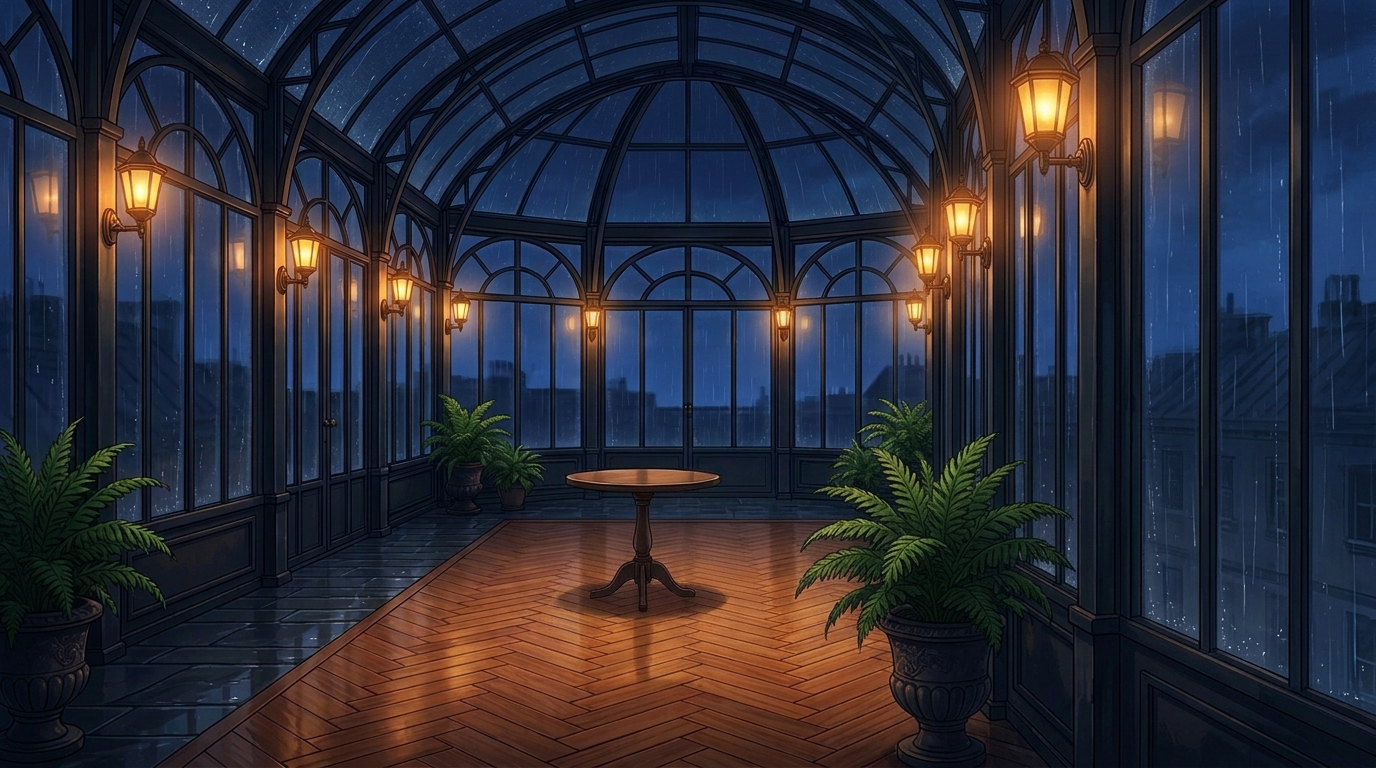
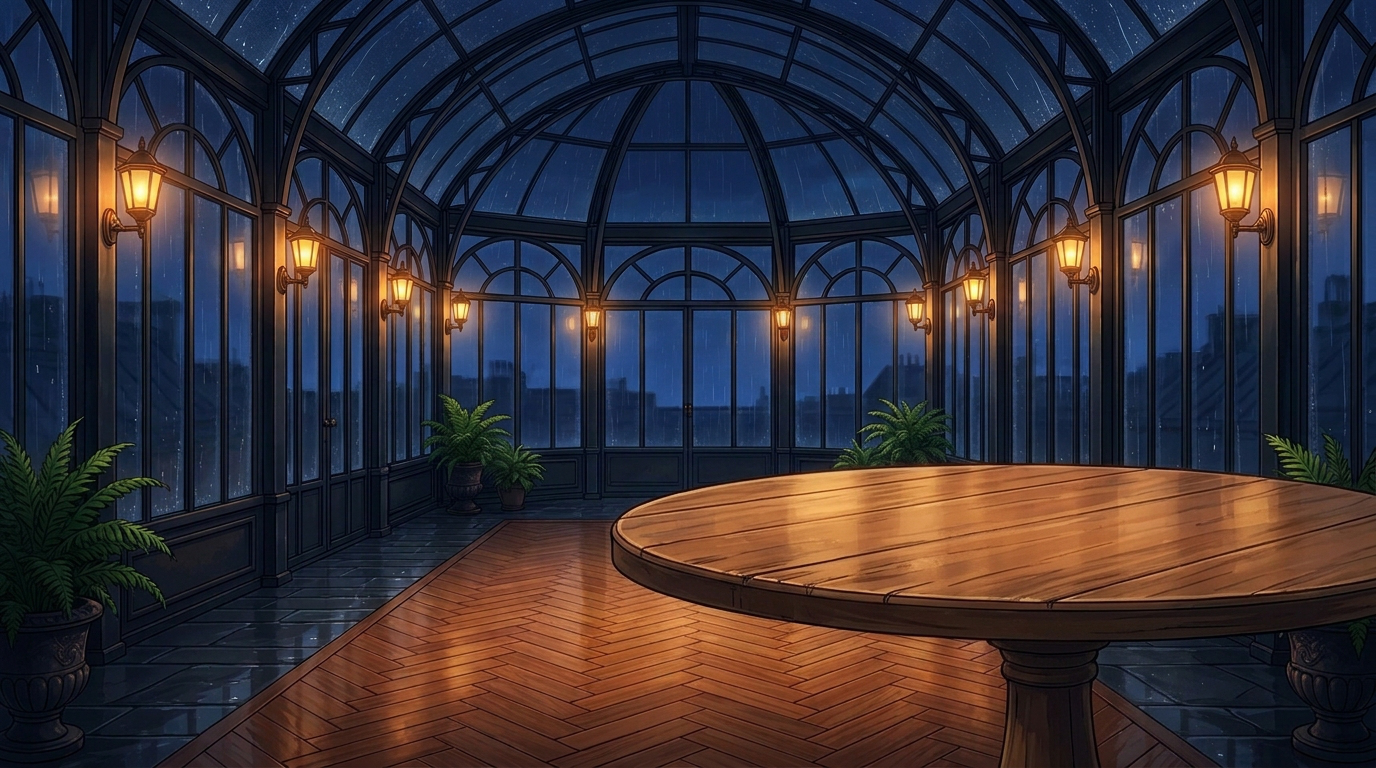
polish(round2): wire injected_prop_json extend handoff, regenerate level close-up Cam B ref, and merge hardening/SSE

Changed region(s): [[0.4062, 0.0, 1.0, 1.0]]

diff --git a/frontend/src/App.tsx b/frontend/src/App.tsx
@@ -23,6 +23,7 @@ import {
   requestSceneRender,
   submitDirectorFork,
   subscribeRenderProgress,
+  type InjectedPropPayload,
   type RenderProgressSnapshot,
 } from './api/stageClient';
 import {
@@ -416,6 +417,7 @@ export default function App(): React.ReactElement {
     text?: string;
     clip?: Blob | null;
     parsedDirective?: DirectorInputParsed | null;
+    injectedProp?: InjectedPropPayload | null;
   }): Promise<boolean> => {
     setBusy({
       label: `Continuing story into Scene ${opts.fromSceneId + 1}`,
@@ -431,6 +433,7 @@ export default function App(): React.ReactElement {
       text: opts.text,
       clip: clipToForward,
       parsedDirective: opts.parsedDirective,
+      injectedProp: opts.injectedProp,
       endFreezeMode: 'sculpture',
       detectThrowPeak: true,
     });
@@ -987,13 +990,15 @@ export default function App(): React.ReactElement {
                         entry_origin: isExplicitToss ? [1.0, 1.5, 0.8] : null,
                       },
                     ];
-            // W2-V3-02: Append `<prop_id>: <appearance_summary>` to environment_notes for render fidelity
+            // W2-V3-02: Upsert `<prop_id>: <appearance_summary>` via `|` delimiter without bloating multi-turn notes
             let nextEnvNotes = s.environment_notes || '';
             if (appearanceSummary) {
-              const cue = `${created.prop_id}: ${appearanceSummary}`;
-              if (!nextEnvNotes.includes(cue)) {
-                nextEnvNotes = nextEnvNotes ? `${nextEnvNotes} ${cue}`.trim() : cue;
-              }
+              const filteredParts = nextEnvNotes
+                .split(/\s*\|\s*/)
+                .map((p) => p.trim())
+                .filter((p) => p.length > 0 && !p.startsWith(`${created.prop_id}:`));
+              filteredParts.push(`${created.prop_id}: ${appearanceSummary}`);
+              nextEnvNotes = filteredParts.join(' | ');
             }
             return {
               ...s,
@@ -1044,6 +1049,16 @@ export default function App(): React.ReactElement {
           ? `${queued.text} (ACTION REQUIREMENT: The viewer explicitly tossed "${created.item.name}" [${matchedLabel}, id=${created.prop_id}] to Lia — Lia catches it, puts aside her umbrella if needed, and visibly performs: "${queued.text}".)`
           : `${queued.text} (ACTION REQUIREMENT: The viewer placed "${created.item.name}" [${matchedLabel}, id=${created.prop_id}] on the ${payload.placement} — Lia puts aside her umbrella if needed, interacts with "${created.item.name}", and visibly performs: "${queued.text}".)`,
         clip: queued.clip,
+        injectedProp: {
+          prop_id: created.prop_id,
+          item: created.item,
+          placement: payload.placement,
+          entry_motion: isExplicitToss
+            ? 'throw_arc'
+            : payload.placement === 'held'
+              ? 'held'
+              : 'place',
+        },
       });
       submittingRef.current = false;
       setSubmitting(false);

diff --git a/frontend/src/api/stageClient.ts b/frontend/src/api/stageClient.ts
@@ -100,12 +100,20 @@ export interface PerceiveRequestPayload {
   text?: string;
 }
 
+export interface InjectedPropPayload {
+  prop_id: string;
+  item: PropRegistryItem;
+  placement?: 'table' | 'held' | 'floor';
+  entry_motion?: PropEntryMotion;
+}
+
 export interface ExtendStoryPayload {
   branchId: string;
   fromSceneId?: number;
   clip?: Blob | null;
   text?: string;
   parsedDirective?: DirectorInputParsed | null;
+  injectedProp?: InjectedPropPayload | null;
   endFreezeMode?: 'sculpture' | 'none';
   detectThrowPeak?: boolean;
 }
@@ -244,6 +252,9 @@ export async function extendDirectorStory(
   }
   if (payload.parsedDirective) {
     formData.append('parsed_directive_json', JSON.stringify(payload.parsedDirective));
+  }
+  if (payload.injectedProp) {
+    formData.append('injected_prop_json', JSON.stringify(payload.injectedProp));
   }
   formData.append('end_freeze_mode', payload.endFreezeMode ?? 'sculpture');
   formData.append('detect_throw_peak', String(payload.detectThrowPeak ?? true));

diff --git a/backend/main.py b/backend/main.py
@@ -55,7 +55,7 @@ from backend.media.video_renderer import (
     subscribe_render_progress,
     unsubscribe_render_progress,
 )
-from backend.schemas import BranchState, DirectorInputParsed, Scene, SceneMedia, StagePropState
+from backend.schemas import BranchState, DirectorInputParsed, PropRegistryItem, Scene, SceneMedia, StagePropState
 
 _ALLOWED_PREVIEW_EXTS: set[str] = {".webm", ".mp4", ".png", ".jpg", ".jpeg"}
 _BRANCH_WRITE_LOCKS: dict[str, asyncio.Lock] = {}
@@ -474,6 +474,7 @@ async def api_director_extend(
     end_freeze_mode: str = Form("sculpture"),
     detect_throw_peak: bool = Form(True),
     parsed_directive_json: Optional[str] = Form(None),
+    injected_prop_json: Optional[str] = Form(None),
     clip: Optional[UploadFile] = File(None),
 ) -> BranchState:
     """
@@ -514,11 +515,29 @@ async def api_director_extend(
 
     updated_registry = dict(parent.props_registry)
     thrown_prop_id: Optional[str] = None
+    injected_placement: str = "table"
+    injected_motion: Optional[str] = None
     explicit_handoff = any(
         kw in (parsed.instruction or "").lower()
         for kw in ("hand you", "give you", "toss", "throw", "catch", "pass you", "to lia", "for you", "for lia", "递给", "给你", "扔给", "丢给")
     )
-    if parsed.has_physical_prop and parsed.prop_name:
+    if injected_prop_json and injected_prop_json.strip():
+        try:
+            inj = json.loads(injected_prop_json)
+            inj_id = str(inj.get("prop_id") or "").strip()
+            inj_item_raw = inj.get("item")
+            if inj_id and isinstance(inj_item_raw, dict):
+                inj_item = PropRegistryItem.model_validate(inj_item_raw)
+                updated_registry[inj_id] = inj_item
+                thrown_prop_id = inj_id
+                injected_placement = str(inj.get("placement") or "table")
+                raw_m = inj.get("entry_motion")
+                injected_motion = str(raw_m) if raw_m in ("place", "throw_arc", "held") else None
+                if getattr(inj_item, "appearance_summary", ""):
+                    parsed.prop_description = inj_item.appearance_summary
+        except Exception:
+            pass
+    if thrown_prop_id is None and parsed.has_physical_prop and parsed.prop_name:
         thrown_prop_id, prop_item = await _invoke_create_prop(
             name=parsed.prop_name,
             description=parsed.prop_description or parsed.prop_name,
@@ -538,17 +557,35 @@ async def api_director_extend(
         end_freeze_mode=end_freeze_mode,
     )
     if thrown_prop_id:
-        if not any(p.id == thrown_prop_id for p in next_scene.stage_props):
-            next_scene.stage_props.append(
-                StagePropState(
-                    id=thrown_prop_id,
-                    grid=[1.05, 1.1],
-                    on_floor=False,
-                    state="glowing",
-                    entry_motion="throw_arc" if explicit_handoff else "place",
-                    entry_origin=[1.0, 2.2, 0.8] if explicit_handoff else None,
+        eff_motion = injected_motion or ("throw_arc" if explicit_handoff else "place")
+        on_floor = injected_placement == "floor"
+        prop_grid = [1.05, 1.1] if not on_floor else [1.15, 1.48]
+        if injected_placement == "held":
+            for actor in next_scene.actors:
+                if actor.id == "lia":
+                    actor.holding_prop = thrown_prop_id
+            next_scene.stage_props = [p for p in next_scene.stage_props if p.id != thrown_prop_id]
+        else:
+            existing_sp = next((p for p in next_scene.stage_props if p.id == thrown_prop_id), None)
+            if existing_sp:
+                existing_sp.entry_motion = eff_motion  # type: ignore[assignment]
+                if eff_motion == "throw_arc" and not existing_sp.entry_origin:
+                    existing_sp.entry_origin = [1.0, 2.2, 0.8]
+            else:
+                next_scene.stage_props.append(
+                    StagePropState(
+                        id=thrown_prop_id,
+                        grid=prop_grid,
+                        on_floor=on_floor,
+                        state="glowing",
+                        entry_motion=eff_motion,  # type: ignore[assignment]
+                        entry_origin=[1.0, 2.2, 0.8] if eff_motion == "throw_arc" else None,
+                    )
                 )
-            )
+        if eff_motion == "throw_arc":
+            for actor in next_scene.actors:
+                if actor.id == "lia":
+                    actor.action = "catch_from_camera"
         prop_app = (getattr(updated_registry[thrown_prop_id], "appearance_summary", "") or "").strip()
         active_ids = {p.id for p in next_scene.stage_props} | {a.holding_prop for a in next_scene.actors if a.holding_prop}
         next_scene.environment_notes = _upsert_prop_appearance_note(

diff --git a/backend/media/generate_stage_refs.py b/backend/media/generate_stage_refs.py
@@ -26,6 +26,17 @@ from backend.media.audit_props import sanitize_prop_png
 from backend.media.prop_maker import _chroma_key_green_to_rgba, _resolve_image_model, create_prop
 
 
+_CAM_B_PROMPT = (
+    "Generate a closer medium close-up three-quarter side-angle framing inside this exact same 2D anime Victorian glass conservatory "
+    "(NO characters, NO tabletop items). Move the camera close beside the round wooden cafe table on the right side, looking obliquely "
+    "toward the left glass window wall so the table sits large in the lower-foreground while the left wall's arched windows and warm amber "
+    "lanterns recede diagonally in classic two-point perspective. CRITICAL GEOMETRY LOCK: hold the camera completely upright on a tripod — "
+    "all vertical window iron pillars MUST be strictly straight vertical parallel to the left and right image edges, the table surface stays "
+    "level, ZERO Dutch angle, ZERO tilted horizon, ZERO camera roll, NO black borders. Maintain identical dark navy rainy glass sky, "
+    "warm amber lanterns, potted ferns, and herringbone parquet floor."
+)
+
+
 def _generate_room_image_sync(prompt: str, ref_image: Path | None = None, out_path: Path | None = None) -> Path:
     """Generate a 16:9 empty conservatory stage background via Nano Banana 2.1."""
     client = genai.Client()
@@ -89,13 +100,7 @@ async def generate_all_v2_stage_and_prop_assets() -> dict:
     )
     await asyncio.to_thread(_generate_room_image_sync, prompt_a, None, cam_a_path)
 
-    prompt_b = (
-        "Same exact 2D anime Victorian glass conservatory room shown in the reference image, empty of characters and tabletop items, "
-        "now viewed from a camera standing at the front-right corner rotated 45 degrees horizontally around the vertical axis looking diagonally across the central round cafe table. "
-        "The room architecture, dark arched glass windows, warm amber wall lanterns, floor pattern, and small round wooden cafe table MUST match the reference image identically. "
-        "Horizon and floor stay completely horizontal and level, vertical pillars stay strictly vertical (ZERO roll, ZERO tilted Dutch angle, NO black borders). "
-        "COMPLETELY EMPTY ROOM: NO people, NO girl, NO cat, NO crystal vase, NO umbrellas, NO text."
-    )
+    prompt_b = _CAM_B_PROMPT
 
     prop_specs = [
         (
@@ -132,6 +137,21 @@ async def generate_all_v2_stage_and_prop_assets() -> dict:
     }
 
 
+async def regenerate_cam_b_only() -> dict:
+    """Regenerate ONLY `conservatory_cam_b.png` conditioned on `conservatory_cam_a.png` with true 45-degree close-up framing."""
+    stages_dir = config.ASSETS_DIR / "stages"
+    cam_a_path = stages_dir / "conservatory_cam_a.png"
+    cam_b_path = stages_dir / "conservatory_cam_b.png"
+    prompt_b = _CAM_B_PROMPT
+    await asyncio.to_thread(_generate_room_image_sync, prompt_b, cam_a_path, cam_b_path)
+    return {"cam_a_ref": str(cam_a_path), "cam_b_ref": str(cam_b_path)}
+
+
 if __name__ == "__main__":
     import json
-    print(json.dumps(asyncio.run(generate_all_v2_stage_and_prop_assets()), ensure_ascii=False, indent=2))
+    import sys
+
+    if "--cam-b-only" in sys.argv:
+        print(json.dumps(asyncio.run(regenerate_cam_b_only()), ensure_ascii=False, indent=2))
+    else:
+        print(json.dumps(asyncio.run(generate_all_v2_stage_and_prop_assets()), ensure_ascii=False, indent=2))

diff --git a/backend/media/test_v2_infinite_sculpture.py b/backend/media/test_v2_infinite_sculpture.py
@@ -412,6 +412,45 @@ def test_round1_product_polish_regressions() -> None:
         )
         assert r_ren.status_code == 200, r_ren.text
         assert r_ren.json()["scene_id"] == 5
+
+        # 4. Protected baseline branch_v1 + injected_prop_json -> forked branch receives prop + appearance_summary + R-26 untouched baseline
+        injected_payload = json.dumps(
+            {
+                "prop_id": "showcase_everyday_yellow_soda_can",
+                "item": {
+                    "name": "Yellow Soda Can Drink",
+                    "image_url": "/assets/props/showcase_everyday_yellow_soda_can.png",
+                    "state": "glowing",
+                    "origin": "camera_physical",
+                    "height_m": 0.13,
+                    "appearance_summary": "bright yellow aluminum soda can with silver pull-tab",
+                },
+                "placement": "table",
+                "entry_motion": "throw_arc",
+            }
+        )
+        r_inj = client.post(
+            "/api/director/extend",
+            data={
+                "branch_id": "branch_v1",
+                "from_scene_id": "4",
+                "text": "Here, catch this bright yellow soda can!",
+                "injected_prop_json": injected_payload,
+            },
+        )
+        assert r_inj.status_code == 200, r_inj.text
+        inj_body = r_inj.json()
+        inj_branch_id = inj_body["branch_id"]
+        try:
+            assert inj_branch_id != "branch_v1"
+            assert "showcase_everyday_yellow_soda_can" in inj_body["props_registry"]
+            inj_scene = inj_body["scenes"][-1]
+            assert any(p["id"] == "showcase_everyday_yellow_soda_can" and p["entry_motion"] == "throw_arc" for p in inj_scene["stage_props"])
+            assert any(a["id"] == "lia" and a["action"] == "catch_from_camera" for a in inj_scene["actors"])
+            assert "bright yellow aluminum soda can" in inj_scene["environment_notes"]
+        finally:
+            if inj_branch_id != "branch_v1":
+                (config.BRANCHES_DIR / f"{inj_branch_id}.json").unlink(missing_ok=True)
     finally:
         config.DEMO_MODE = prev_demo
         if created_branch_id and created_branch_id != "branch_v1":
